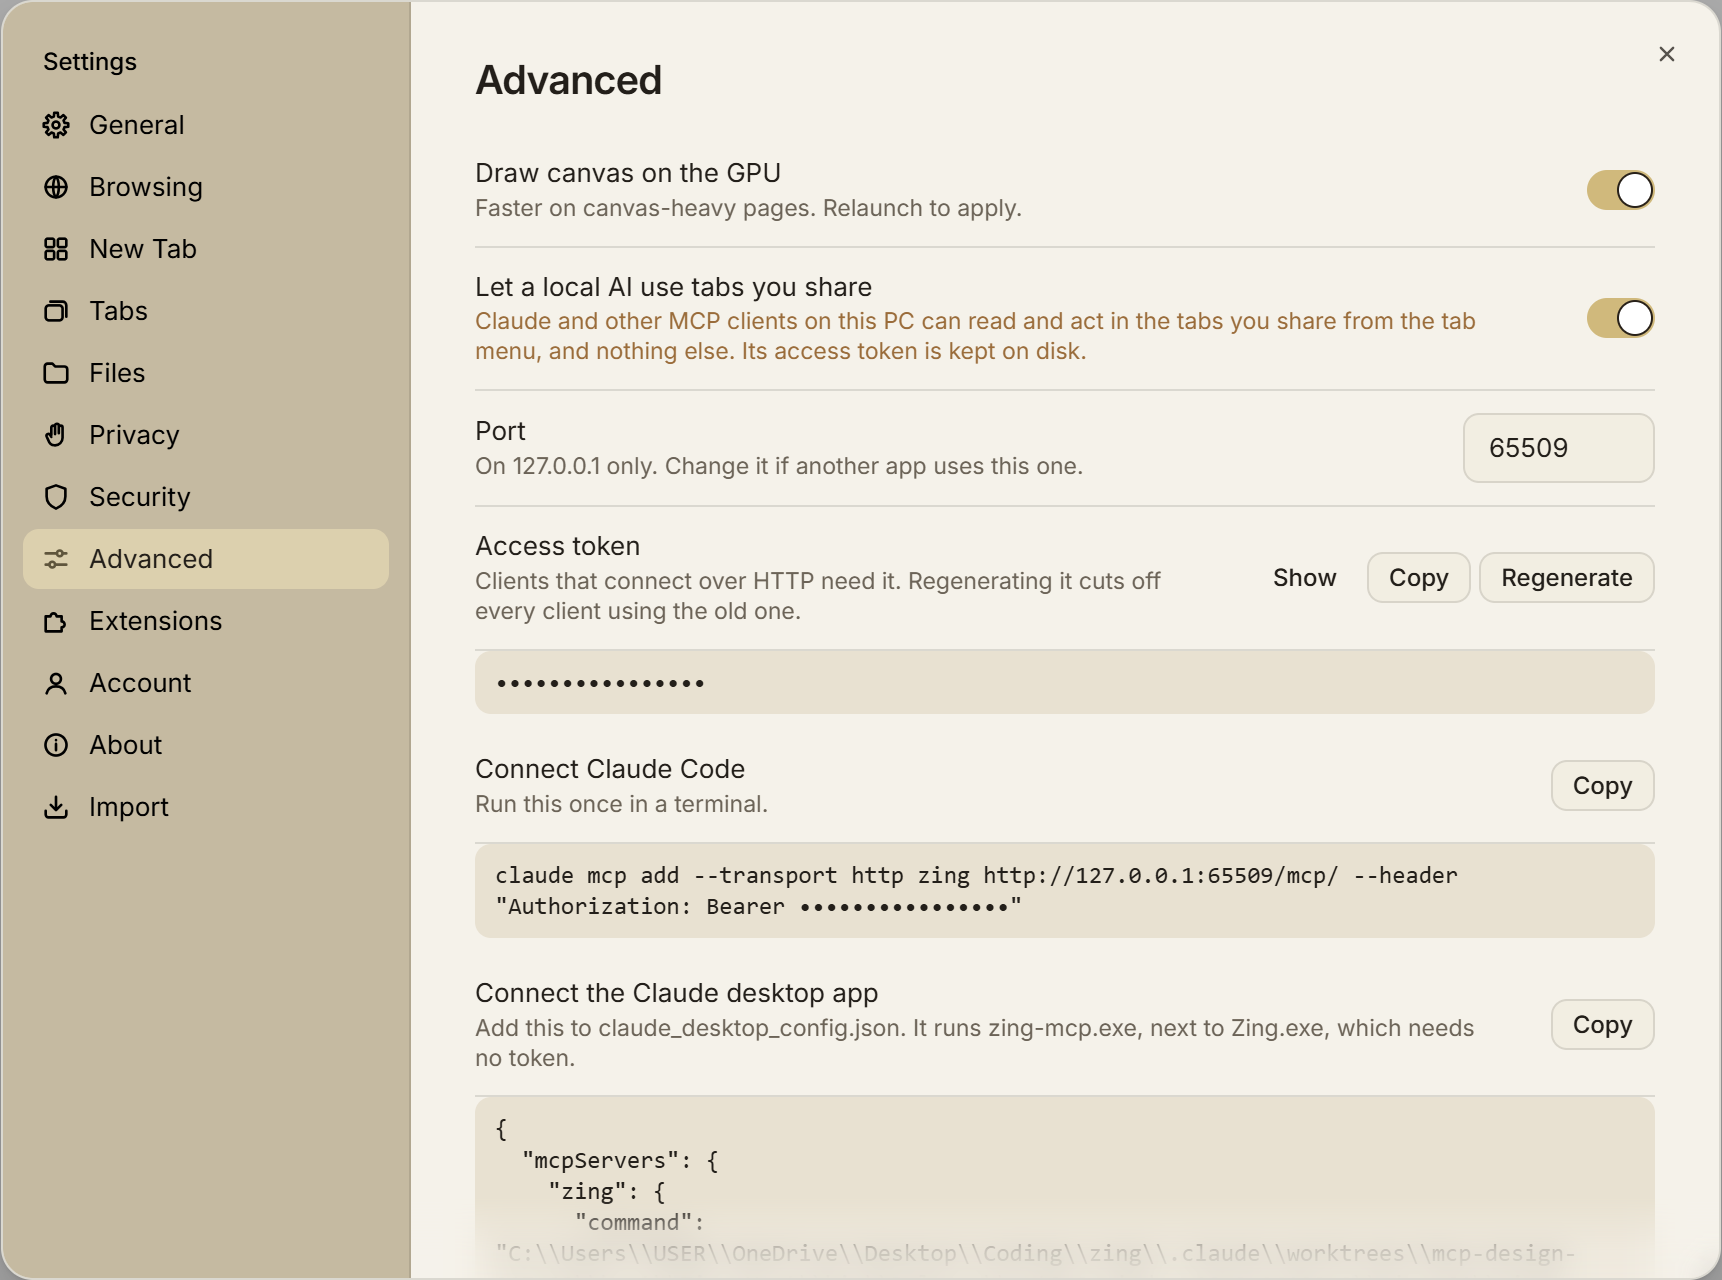
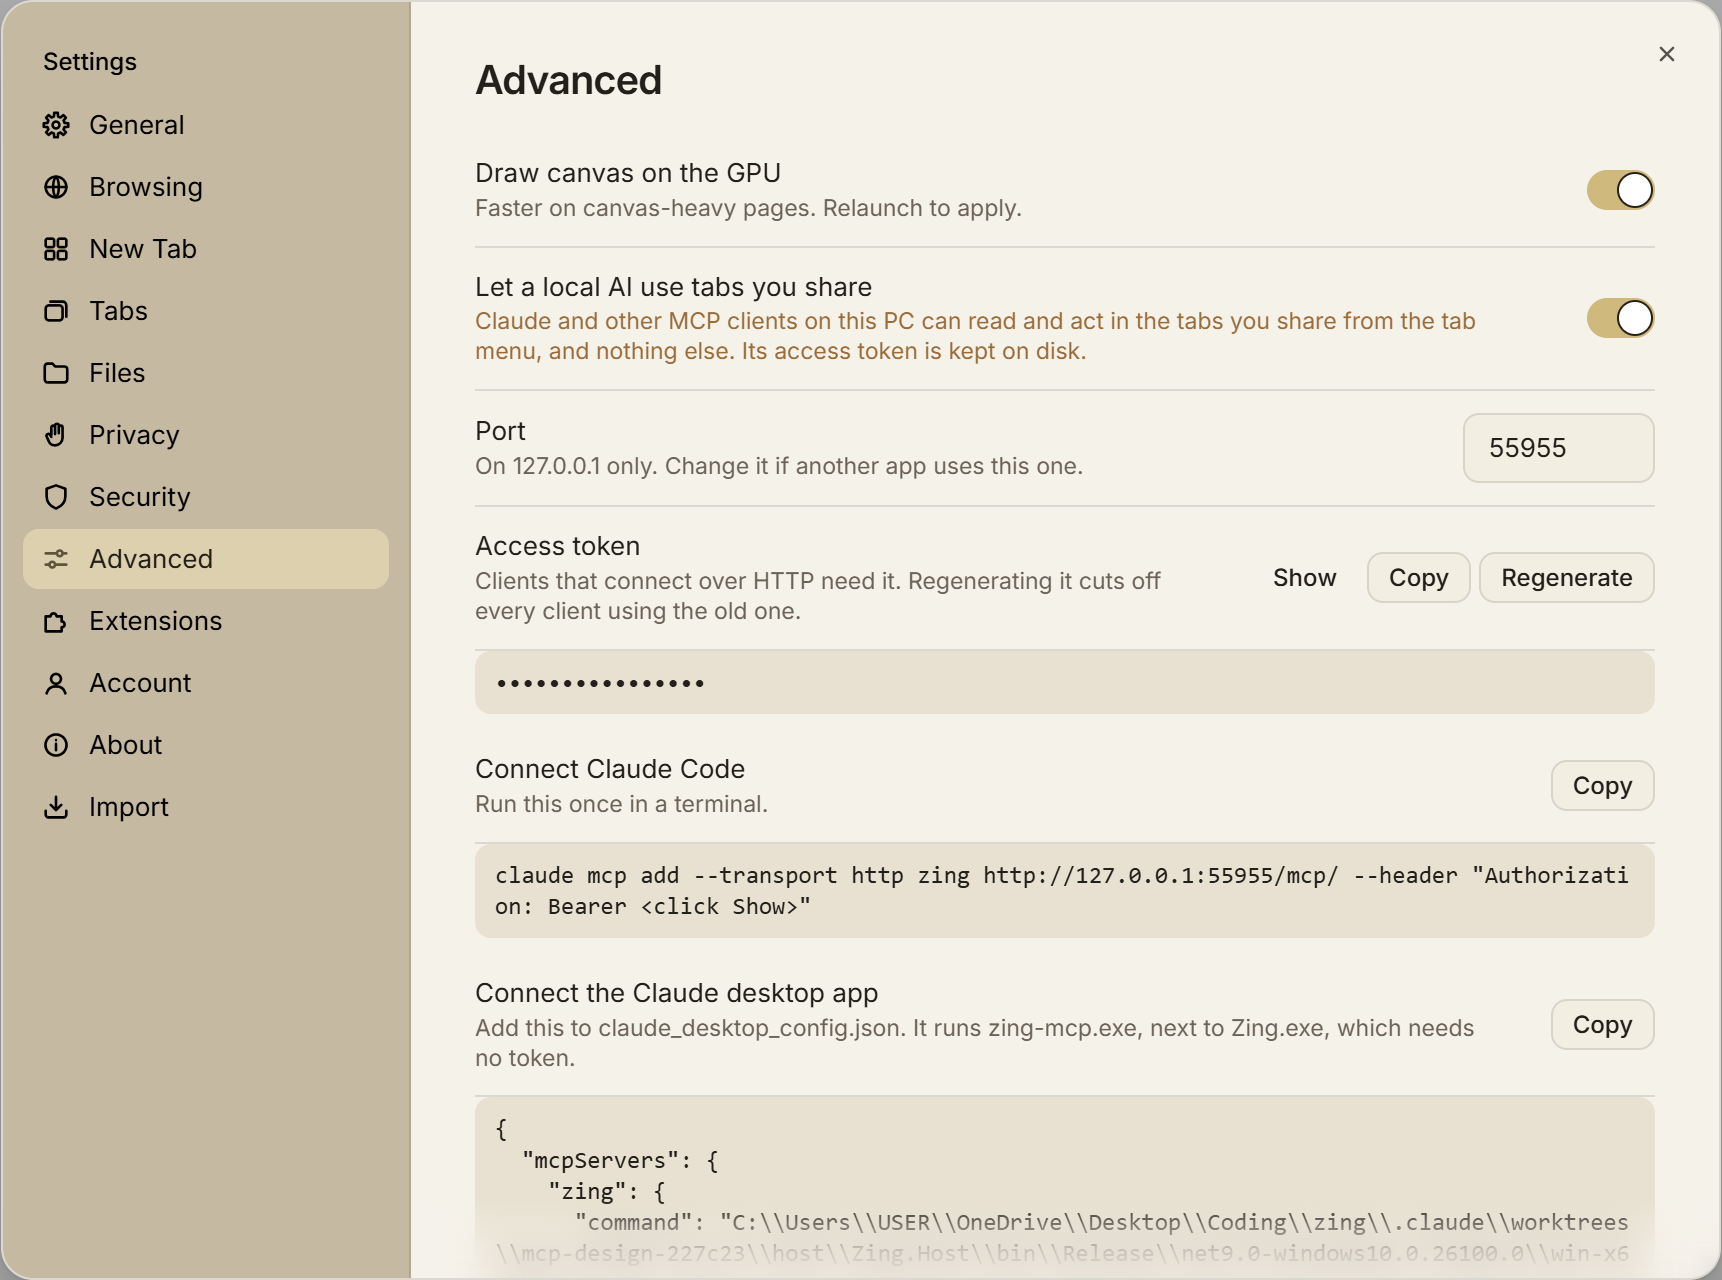
ai share ui: token only on show, clamp confirm text

diff --git a/src/renderer/src/settings/AiControlSection.tsx b/src/renderer/src/settings/AiControlSection.tsx
@@ -16,9 +16,12 @@ const MASK = '•'.repeat(16)
 const MIN_PORT = 1024
 const MAX_PORT = 65535
 
-/** The token in `text` hidden unless `shown`: the snippets carry it, and the sheet may be on a shared screen. */
-export function masked(text: string, token: string | undefined, shown: boolean): string {
-	return shown || !token ? text : text.split(token).join(MASK)
+/** Where the host's snippet holds the token's place (AiWindow.TokenPlaceholder). */
+export const TOKEN_PLACEHOLDER = '<click Show>'
+
+/** The snippet as shown: the token in its place once Show fetched it, the placeholder until then. */
+export function withToken(text: string, token: string | null): string {
+	return token === null ? text : text.split(TOKEN_PLACEHOLDER).join(token)
 }
 
 /** A port typed in, or null when it isn't a whole number Zing may listen on. */
@@ -71,12 +74,11 @@ interface SnippetProps {
 	readonly title: string
 	readonly detail: string
 	readonly text: string
-	readonly shown: boolean
-	readonly token: string | undefined
+	readonly token: string | null
 	readonly copy: 'claude-code' | 'claude-desktop'
 }
 
-function Snippet({ title, detail, text, shown, token, copy }: SnippetProps) {
+function Snippet({ title, detail, text, token, copy }: SnippetProps) {
 	return (
 		<>
 			<SettingRowShell title={title} detail={detail}>
@@ -85,7 +87,7 @@ function Snippet({ title, detail, text, shown, token, copy }: SnippetProps) {
 				</PillButton>
 			</SettingRowShell>
 			<pre className="ai-snippet" aria-label={`${title} setup`}>
-				{masked(text, token, shown)}
+				{withToken(text, token)}
 			</pre>
 		</>
 	)
@@ -95,7 +97,8 @@ function Snippet({ title, detail, text, shown, token, copy }: SnippetProps) {
 export function AiControlSection({ handle }: { handle: SettingsHandle }) {
 	const enabled = handle.settings.aiControlEnabled
 	const state = useAiSettings(enabled, handle.settings.aiControlPort)
-	const [shown, setShown] = useState(false)
+	// Fetched on Show and dropped on Hide: the settings state never carries it.
+	const [token, setToken] = useState<string | null>(null)
 	if (!state) return null
 	if (!state.available) return <SettingRowShell title="AI control is unavailable" detail="Zing couldn’t read your AI site settings this launch. The file was left as it is." warning />
 	return (
@@ -107,28 +110,30 @@ export function AiControlSection({ handle }: { handle: SettingsHandle }) {
 					{state.error ? <SettingRowShell title="AI control isn’t reachable" detail={state.error} warning /> : null}
 					<SettingRowShell title="Access token" detail="Clients that connect over HTTP need it. Regenerating it cuts off every client using the old one.">
 						<div className="ai-token-actions">
-							<PillButton variant="ghost" size="small" onClick={() => setShown(!shown)}>
-								{shown ? 'Hide' : 'Show'}
+							<PillButton variant="ghost" size="small" onClick={() => (token === null ? void zing.showAiToken().then(setToken) : setToken(null))}>
+								{token === null ? 'Show' : 'Hide'}
 							</PillButton>
 							<PillButton variant="outlined" size="small" aria-label="Copy the access token" onClick={() => void zing.copyAi('token')}>
 								Copy
 							</PillButton>
-							<PillButton variant="outlined" size="small" onClick={() => void zing.regenerateAiToken()}>
+							<PillButton variant="outlined" size="small" onClick={() => {
+									setToken(null)
+									void zing.regenerateAiToken()
+								}}>
 								Regenerate
 							</PillButton>
 						</div>
 					</SettingRowShell>
 					<code className="ai-token" aria-label="Access token">
-						{shown ? state.token : MASK}
+						{token ?? MASK}
 					</code>
-					{state.claudeCode ? <Snippet title="Connect Claude Code" detail="Run this once in a terminal." text={state.claudeCode} shown={shown} token={state.token} copy="claude-code" /> : null}
+					{state.claudeCode ? <Snippet title="Connect Claude Code" detail="Run this once in a terminal." text={state.claudeCode} token={token} copy="claude-code" /> : null}
 					{state.claudeDesktop ? (
 						<Snippet
 							title="Connect the Claude desktop app"
 							detail="Add this to claude_desktop_config.json. It runs zing-mcp.exe, next to Zing.exe, which needs no token."
 							text={state.claudeDesktop}
-							shown={shown}
-							token={state.token}
+							token={token}
 							copy="claude-desktop"
 						/>
 					) : null}

diff --git a/src/shared/ipc.ts b/src/shared/ipc.ts
@@ -76,10 +76,9 @@ export type AiCopyTarget = 'token' | 'claude-code' | 'claude-desktop'
 export interface AiSettingsState {
 	/** False when AI control couldn't start this launch (its site file couldn't be read). */
 	readonly available: boolean
-	/** The token, only while AI control is on (reading it makes it). */
-	readonly token?: string
 	/** Whether the sealed token file is on disk; the privacy banner follows it. */
 	readonly tokenStored: boolean
+	/** With `<click Show>` where the token goes: the token itself never comes with this state. */
 	readonly claudeCode?: string
 	readonly claudeDesktop?: string
 	readonly sites: readonly { readonly site: string; readonly level: AiSiteLevel }[]
@@ -691,6 +690,8 @@ export interface InvokeContract {
 	'ai:strip-size': { args: [width: number, height: number]; result: void }
 	'ai:confirm-size': { args: [width: number, height: number]; result: void }
 	'ai:settings': { args: []; result: AiSettingsState }
+	/** The token, for Show only; rejects while AI control is off. */
+	'ai:show-token': { args: []; result: string }
 	'ai:regenerate-token': { args: []; result: void }
 	/** Sets a site's level; the default level removes it from the list. */
 	'ai:set-site-level': { args: [site: string, level: AiSiteLevel]; result: void }
@@ -989,6 +990,7 @@ export interface ZingApi {
 	setAiStripSize(width: number, height: number): Promise<void>
 	setAiConfirmSize(width: number, height: number): Promise<void>
 	getAiSettings(): Promise<AiSettingsState>
+	showAiToken(): Promise<string>
 	regenerateAiToken(): Promise<void>
 	setAiSiteLevel(site: string, level: AiSiteLevel): Promise<void>
 	copyAi(what: AiCopyTarget): Promise<void>

diff --git a/src/renderer/src/ai/AiBars.test.tsx b/src/renderer/src/ai/AiBars.test.tsx
@@ -1,6 +1,6 @@
 import { renderToStaticMarkup } from 'react-dom/server'
 import { describe, expect, it, vi } from 'vitest'
-import { masked, parsePort } from '../settings/AiControlSection'
+import { parsePort, TOKEN_PLACEHOLDER, withToken } from '../settings/AiControlSection'
 import { AiConfirmBar } from './AiBars'
 import { aiTabClasses } from './useAiTabs'
 
@@ -32,10 +32,10 @@ describe('the tab marks', () => {
 })
 
 describe('the Settings section', () => {
-	it('hides the token inside a snippet until shown', () => {
-		const text = 'claude mcp add --header "Authorization: Bearer abc123"'
-		expect(masked(text, 'abc123', false)).not.toContain('abc123')
-		expect(masked(text, 'abc123', true)).toBe(text)
+	it('shows the placeholder in a snippet until Show fetched the token', () => {
+		const text = `claude mcp add --header "Authorization: Bearer ${TOKEN_PLACEHOLDER}"`
+		expect(withToken(text, null)).toBe(text)
+		expect(withToken(text, 'abc123')).toBe('claude mcp add --header "Authorization: Bearer abc123"')
 	})
 
 	it('takes only a whole port Zing may listen on', () => {

diff --git a/src/renderer/src/ai/ai.css b/src/renderer/src/ai/ai.css
@@ -57,9 +57,20 @@
 .ai-confirm-text {
 	margin: 0;
 	font-weight: 600;
-	/* Page text can be one long word; it wraps rather than widening the bar. */
+	/* Page text can be one long word; it wraps rather than widening the bar. The host already caps it at one 200-character
+	   line (ConfirmText); three lines here keep the buttons in place whatever gets through. */
+	display: -webkit-box;
+	-webkit-box-orient: vertical;
+	-webkit-line-clamp: 3;
+	line-clamp: 3;
+	overflow: hidden;
 	overflow-wrap: anywhere;
-	white-space: pre-wrap;
+}
+
+/* The ghost Always allow has no resting chrome, so its keyboard focus must show. */
+.ai-bar .pill-button:focus-visible {
+	outline: 2px solid var(--accent);
+	outline-offset: 2px;
 }
 
 .ai-confirm-actions {

diff --git a/e2e/ai-ui.spec.ts b/e2e/ai-ui.spec.ts
@@ -156,6 +156,11 @@ test('regenerating the token cuts off the old one', async () => {
 	const zing = await launchZing()
 	const mcp = await connectMcp(zing.chrome)
 	expect(await sharedTabs(mcp)).toEqual([])
+	// Settings' state never carries the token: the sheet gets it only on Show.
+	const token = await zing.chrome.evaluate(() => window.zing.showAiToken())
+	const settings = JSON.stringify(await zing.chrome.evaluate(() => window.zing.getAiSettings()))
+	expect(settings).not.toContain(token)
+	expect(settings).toContain('Bearer <click Show>')
 	await zing.chrome.evaluate(() => window.zing.openSettings('advanced'))
 	const sheet = await view(zing.browser, '#surface')
 	await sheet.getByRole('button', { name: 'Regenerate' }).click()

diff --git a/e2e/ai-ui-screenshots.spec.ts b/e2e/ai-ui-screenshots.spec.ts
@@ -88,6 +88,12 @@ test.describe('AI control screenshots', () => {
 			await expect(sheet.getByText('Connect Claude Code')).toBeVisible()
 			await sheet.waitForTimeout(400)
 			await sheet.getByRole('dialog', { name: 'Settings' }).screenshot({ path: join(OUT_DIR, `ai-settings-${mode}.png`) })
+
+			// The privacy banner warns while AI control is on: its token is kept on disk.
+			await sheet.getByRole('button', { name: 'Privacy', exact: true }).click()
+			await expect(sheet.getByText(/access token for AI control/)).toBeVisible()
+			await sheet.waitForTimeout(400)
+			await sheet.getByRole('dialog', { name: 'Settings' }).screenshot({ path: join(OUT_DIR, `ai-privacy-banner-${mode}.png`) })
 			await zing.close()
 		})
 	}

diff --git a/src/shared/zingApi.ts b/src/shared/zingApi.ts
@@ -220,6 +220,7 @@ export function createZingApi(invoke: Invoke, listen: Listen): ZingApi {
 		setAiStripSize: (width, height) => invoke('ai:strip-size', width, height),
 		setAiConfirmSize: (width, height) => invoke('ai:confirm-size', width, height),
 		getAiSettings: () => invoke('ai:settings'),
+		showAiToken: () => invoke('ai:show-token'),
 		regenerateAiToken: () => invoke('ai:regenerate-token'),
 		setAiSiteLevel: (site, level) => invoke('ai:set-site-level', site, level),
 		copyAi: (what) => invoke('ai:copy', what),

diff --git a/src/renderer/src/settings/settings.css b/src/renderer/src/settings/settings.css
@@ -575,7 +575,9 @@
 	color: var(--text);
 	font-family: var(--mono, ui-monospace, monospace);
 	font-size: 12px;
+	overflow: visible;
 	overflow-wrap: anywhere;
+	word-break: break-all;
 	white-space: pre-wrap;
 	user-select: text;
 }

diff --git a/host/Zing.Host/AiWindow.cs b/host/Zing.Host/AiWindow.cs
@@ -13,8 +13,8 @@ public sealed record AiTabsView(IReadOnlyList<string> Shared, IReadOnlyList<stri
 
 public sealed record AiSiteView(string Site, string Level);
 
-/// <summary>What Settings shows for AI control (AiSettingsState in ipc.ts).</summary>
-public sealed record AiSettingsView(bool Available, string? Token, bool TokenStored, string? ClaudeCode, string? ClaudeDesktop, IReadOnlyList<AiSiteView> Sites, int SharedCount, string? Error);
+/// <summary>What Settings shows for AI control (AiSettingsState in ipc.ts). Never the token: Show asks for it (ai:show-token).</summary>
+public sealed record AiSettingsView(bool Available, bool TokenStored, string? ClaudeCode, string? ClaudeDesktop, IReadOnlyList<AiSiteView> Sites, int SharedCount, string? Error);
 
 /// <summary>
 /// One window's share UI: the tab menu's share item, the outline and badge on its tabs (ai:state), the strip and the confirm
@@ -133,14 +133,20 @@ public sealed class AiWindow : ITabSharing
 		Refresh();
 	}
 
-	/// <summary>The Settings section. The token is read (made, on first use) only while AI control is on.</summary>
+	/// <summary>The Settings section. It never carries the token, which reaches the sheet only on Show.</summary>
 	public static AiSettingsView Settings(AiControl? ai, bool enabled, int port)
 	{
-		if (ai is null) return new AiSettingsView(false, null, File.Exists(AppPaths.AiToken), null, null, [], 0, null);
-		var token = enabled ? AiRequestCheck.Encode(ai.Token.Current()) : null;
+		if (ai is null) return new AiSettingsView(false, File.Exists(AppPaths.AiToken), null, null, [], 0, null);
 		var sites = ai.Policy.All().OrderBy(p => p.Key, StringComparer.Ordinal).Select(p => new AiSiteView(p.Key, p.Value.ToString())).ToList();
-		return new AiSettingsView(true, token, File.Exists(AppPaths.AiToken), token is null ? null : ClaudeCode(port, token), ClaudeDesktop(), sites, ai.Shares.List().Count, enabled ? ai.LastError : null);
+		return new AiSettingsView(true, File.Exists(AppPaths.AiToken), enabled ? ClaudeCode(port, TokenPlaceholder) : null, enabled ? ClaudeDesktop() : null, sites, ai.Shares.List().Count, enabled ? ai.LastError : null);
 	}
+
+	/// <summary>Stands for the token in the snippet Settings shows; Show and Copy put the real one in.</summary>
+	public const string TokenPlaceholder = "<click Show>";
+
+	/// <summary>The token, read (made, on first use) only while AI control is on.</summary>
+	public static string Token(AiControl ai, bool enabled) =>
+		enabled ? AiRequestCheck.Encode(ai.Token.Current()) : throw new InvalidOperationException("Turn on AI control to see its token");
 
 	// 127.0.0.1, not localhost: the listener turns away any other Host.
 	public static string ClaudeCode(int port, string token) => $"claude mcp add --transport http zing http://127.0.0.1:{port}/mcp/ --header \"Authorization: Bearer {token}\"";

diff --git a/host/Zing.Host/MainWindow.cs b/host/Zing.Host/MainWindow.cs
@@ -266,7 +266,9 @@ public sealed class MainWindow : IWindowHost, IPageHost, IPageFeatureHost
 			_ai?.ConfirmSize(Size(args, 0), Size(args, 1));
 			return (object?)null;
 		});
-		_bridge.Register("ai:settings", _ => (object?)AiWindow.Settings(_app.Ai, Flag("aiControlEnabled"), _app.Services.Settings.Get("aiControlPort")!.GetValue<int>()));
+		_bridge.Register("ai:settings", _ => (object?)AiWindow.Settings(_app.Ai, Flag("aiControlEnabled"), AiPort()));
+		// Only on the person's Show: the token is otherwise never in a view.
+		_bridge.Register("ai:show-token", _ => (object?)AiWindow.Token(Control(), Flag("aiControlEnabled")));
 		_bridge.Register("ai:regenerate-token", _ =>
 		{
 			Control().Token.Regenerate();
@@ -279,18 +281,21 @@ public sealed class MainWindow : IWindowHost, IPageHost, IPageFeatureHost
 		});
 		_bridge.Register("ai:copy", args =>
 		{
-			var settings = AiWindow.Settings(Control(), Flag("aiControlEnabled"), _app.Services.Settings.Get("aiControlPort")!.GetValue<int>());
+			var enabled = Flag("aiControlEnabled");
+			// The token is filled in here, so a copy never sends it to the sheet.
 			var text = Text(args, 0) switch
 			{
-				"token" => settings.Token,
-				"claude-code" => settings.ClaudeCode,
-				"claude-desktop" => settings.ClaudeDesktop,
+				"token" => AiWindow.Token(Control(), enabled),
+				"claude-code" => AiWindow.ClaudeCode(AiPort(), AiWindow.Token(Control(), enabled)),
+				"claude-desktop" => AiWindow.ClaudeDesktop(),
 				var other => throw new ArgumentException($"AI control has nothing called '{other}' to copy"),
 			};
-			Shell.CopyText(text ?? throw new InvalidOperationException("Turn on AI control to copy its connection details"));
+			Shell.CopyText(text);
 			return (object?)null;
 		});
 	}
+
+	private int AiPort() => _app.Services.Settings.Get("aiControlPort")!.GetValue<int>();
 
 	private bool Flag(string key) => _app.Services.Settings.Get(key)!.GetValue<bool>();
 

diff --git a/host/Zing.Core/Mcp/ConfirmText.cs b/host/Zing.Core/Mcp/ConfirmText.cs
@@ -1,0 +1,31 @@
+using System.Globalization;
+using System.Text;
+
+namespace Zing.Core.Mcp;
+
+/// <summary>
+/// What a confirm bar may show: page-influenced text (an accessible name, a key, a URL) made one bounded line. Format
+/// characters (bidi overrides) go entirely, control and line-break characters become spaces, runs of space collapse.
+/// </summary>
+public static class ConfirmText
+{
+	public const int MaxLength = 200;
+
+	public static string Clamp(string text)
+	{
+		var line = new StringBuilder(text.Length);
+		foreach (var c in text)
+		{
+			if (CharUnicodeInfo.GetUnicodeCategory(c) == UnicodeCategory.Format) continue;
+			var spaced = char.IsControl(c) || char.IsWhiteSpace(c) ? ' ' : c;
+			if (spaced == ' ' && (line.Length == 0 || line[^1] == ' ')) continue;
+			line.Append(spaced);
+		}
+		var clean = line.ToString().TrimEnd();
+		if (clean.Length <= MaxLength) return clean;
+		var cut = clean[..(MaxLength - 1)];
+		// Never leave half a surrogate pair at the cut.
+		if (char.IsHighSurrogate(cut[^1])) cut = cut[..^1];
+		return cut + "\u2026";
+	}
+}

diff --git a/host/Zing.Core.Tests/Mcp/ShareUiTests.cs b/host/Zing.Core.Tests/Mcp/ShareUiTests.cs
@@ -86,3 +86,22 @@ public sealed class ShareUiTests : IDisposable
 	[InlineData("http://localhost/", false)]
 	public void Only_an_address_with_a_site_can_be_always_allowed(string url, bool hasSite) => Assert.Equal(hasSite, SitePolicy.HasSite(new Uri(url)));
 }
+
+public sealed class ConfirmTextTests
+{
+	[Fact]
+	public void A_long_description_is_one_line_of_at_most_200_characters_ending_in_an_ellipsis()
+	{
+		var text = ConfirmText.Clamp("click button \"" + new string('x', 500) + "\"\non example.com");
+		Assert.Equal(ConfirmText.MaxLength, text.Length);
+		Assert.EndsWith("\u2026", text);
+		Assert.DoesNotContain('\n', text);
+	}
+
+	[Fact]
+	public void Control_and_format_characters_go_and_spaces_collapse() =>
+		Assert.Equal("press key Enter\u2026 in textbox", ConfirmText.Clamp("press key\t\r\n Enter\u202e\u2026 in\u0000textbox"));
+
+	[Fact]
+	public void A_short_clean_description_is_unchanged() => Assert.Equal("click button \"Send\" on example.com", ConfirmText.Clamp("click button \"Send\" on example.com"));
+}
